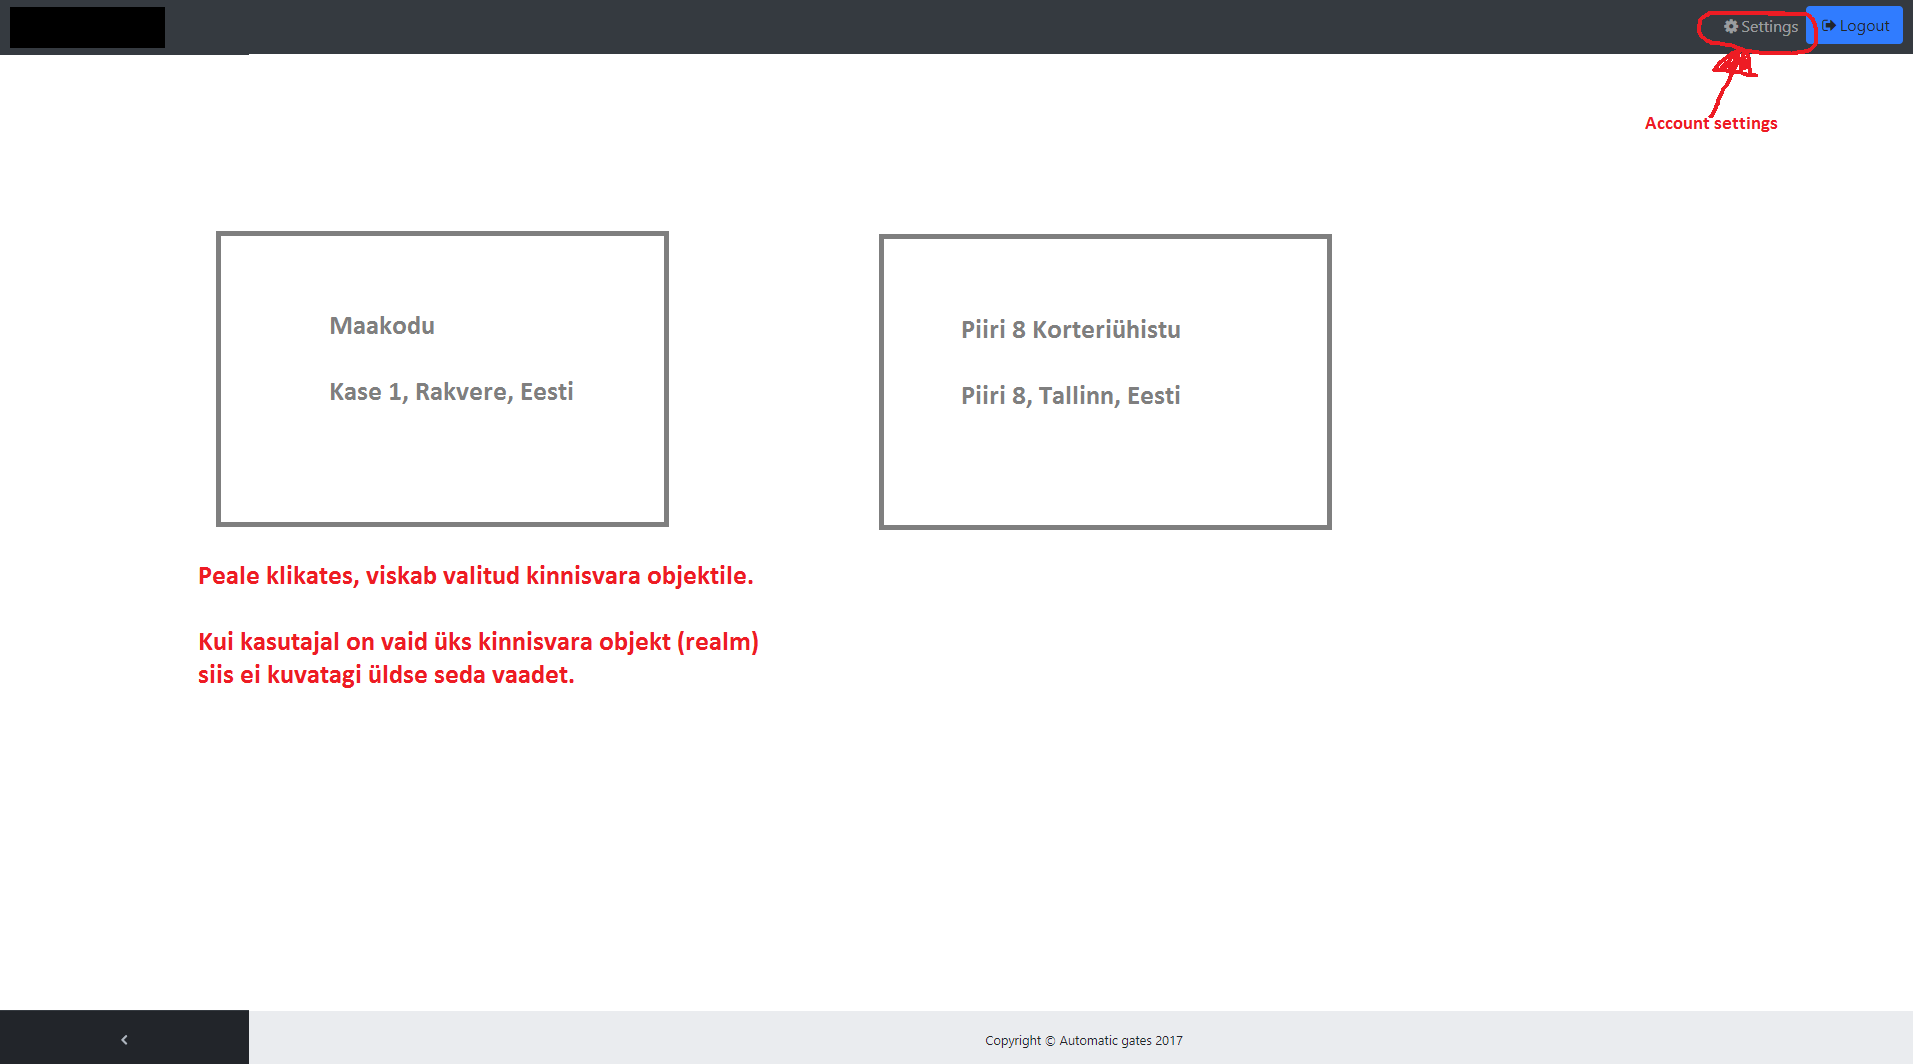
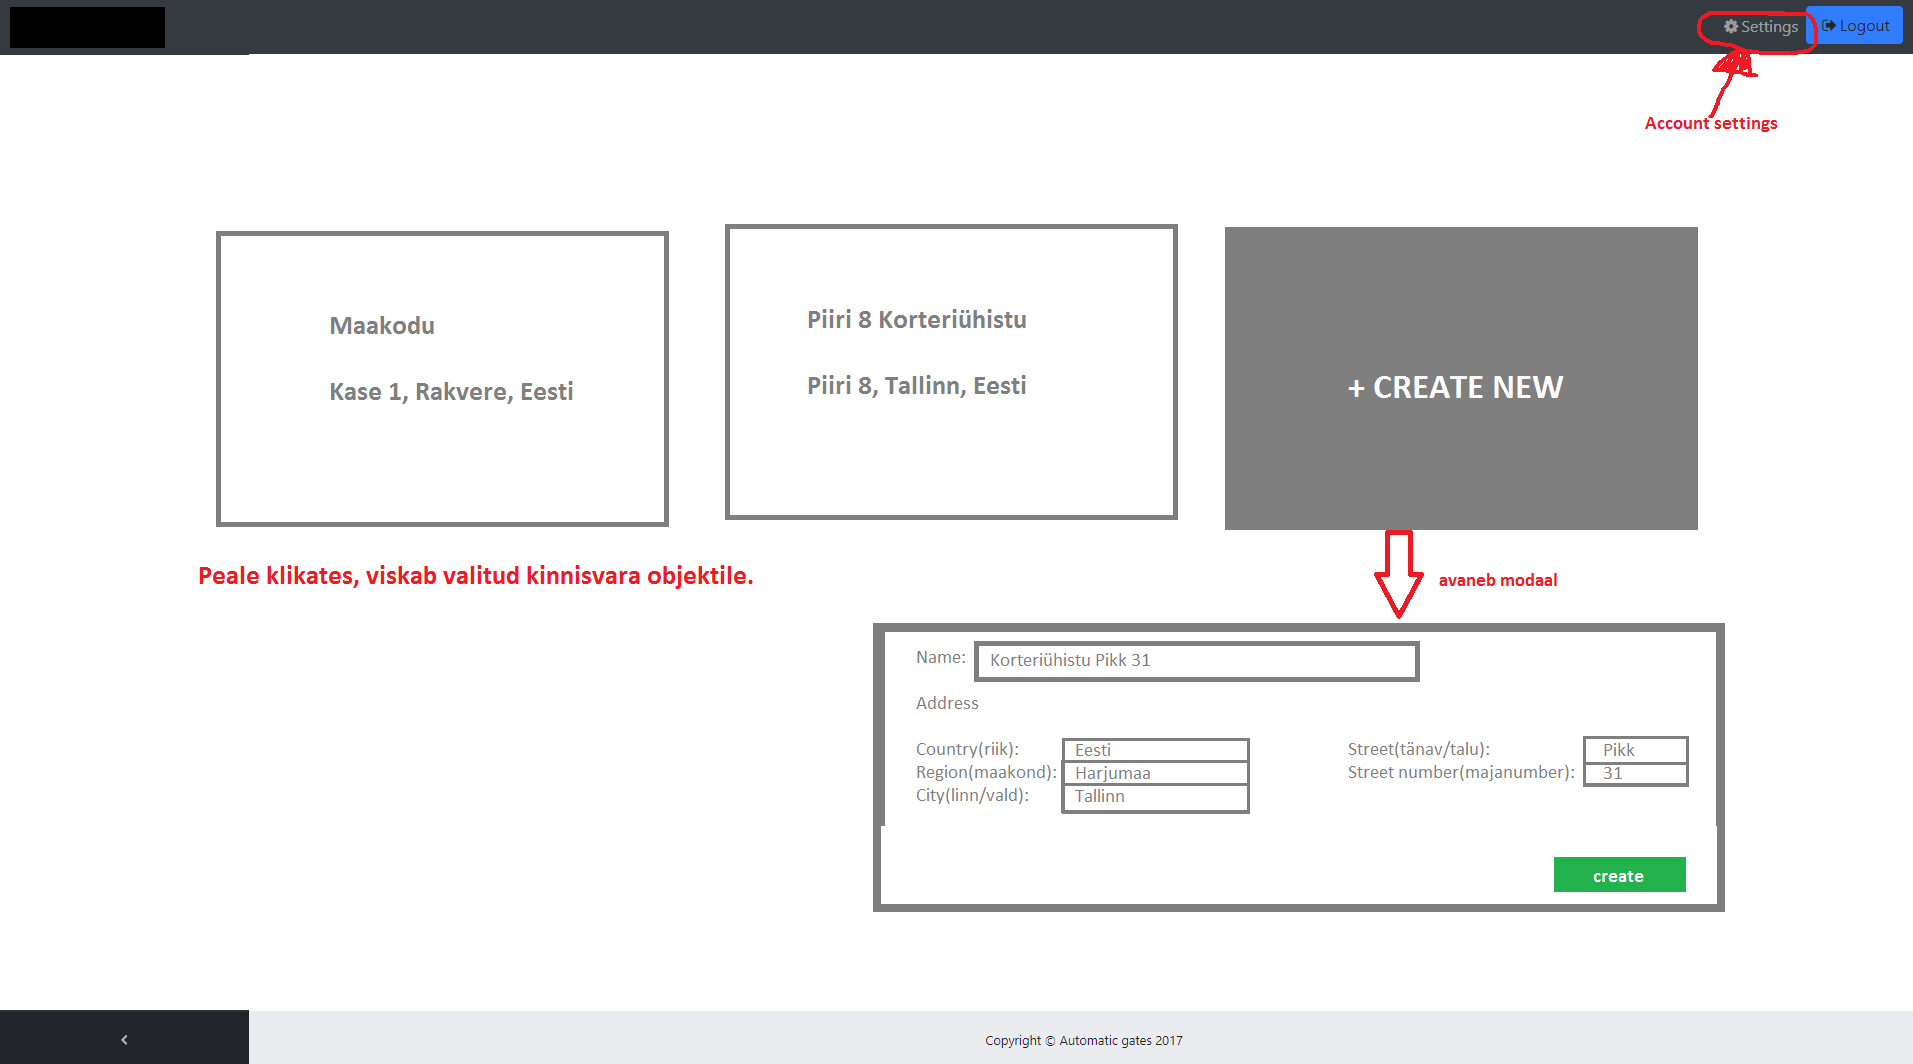
update

Changed region(s): [[0.3701, 0.1861, 0.9252, 0.8684], [0.0925, 0.5893, 0.4009, 0.6513]]

diff --git a/README.md b/README.md
@@ -43,11 +43,23 @@ Format of the keys are consistent throughout the API.
 | POST      | /login                    | Authenticate and login                | email, password                       | {success, message}
 | PUT       | /logout                   | Log out and end session               | ...                                   | {success, message}
 
+### 2. ACCOUNT SETTINGS:
+---
+![account_settings-view](https://raw.githubusercontent.com/RaimoJohanson/apelsin/master/Prototype/account_settings.png)
+|Method     | Resource                          | Description                           | Keys                                                | Response   
+| GET       | /users/{user_id}| Get specified user                    |                                                     | [{ ... }]
+| PUT       | /users/{user_id}| Modify existing user                  |'first_name', 'last_name','email', 'role','password' | 
+| DELETE    | /users/{user_id}| Delete existing user                  |                                                     |
 
-
-### 2. REALM SETTINGS:
+### 2. LANDING:
 ---
 ![landing-view](https://raw.githubusercontent.com/RaimoJohanson/apelsin/master/Prototype/landing.png)
+|Method     | Resource                          | Description                           | Keys                                                | Response              
+| ------    | ------                            | ------                                | -----                                               | -----   
+| GET       | /realms                           | List of available realms to user      |                                                         | [{ ... }]  
+| POST      | /realms                           | Add realm. Creator will be admin      |'name','country','region','city','street','street_number'| 
+### 2. DASHBOARD:
+---
 ![dashboard-view](https://raw.githubusercontent.com/RaimoJohanson/apelsin/master/Prototype/dashboard.png)
 ```
 DASHBOARD: Tee lihtsalt 3 päringut:
@@ -57,15 +69,18 @@ cameras       => GET  v1/realms/{realm_id}/cameras
 statistics    => GET  v1/realms/{realm_id}/statistics/today
 
 ```
+### 2. REALM SETTINGS:
+---
+
+
+
 ![realm_settings-view](https://raw.githubusercontent.com/RaimoJohanson/apelsin/master/Prototype/realm_settings.png)
 Example: https://www.example.com/v1/realms
 
-|Method     | Resource                          | Description                           | Keys                                                | Response              
-| ------    | ------                            | ------                                | -----                                               | -----   
-| GET       | /realms                           | List of available realms to user      |                                                         | [{ ... }]    
-| POST      | /realms                           | Add realm. Creator will be admin      |'name','country','region','city','street','street_number'| 
+|Method     | Resource                          | Description                           | Keys                                                    | Response              
+| ------    | ------                            | ------                                | -----                                                   | -----      
 | PUT       | /realms/{realm_id}                | Modify existing realm                 |'name','country','region','city','street','street_number'| 
-| DELETE    | /realms/{realm_id}                | Delete existing realm                 |                                                     |
+| DELETE    | /realms/{realm_id}                | Delete existing realm                 |                                                         |
 
 ![realm_users-view](https://raw.githubusercontent.com/RaimoJohanson/apelsin/master/Prototype/realm_users.png)
 |Method     | Resource                          | Description                           | Keys                                                | Response              
